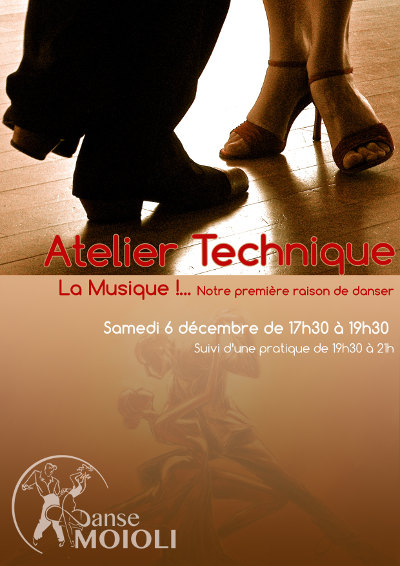
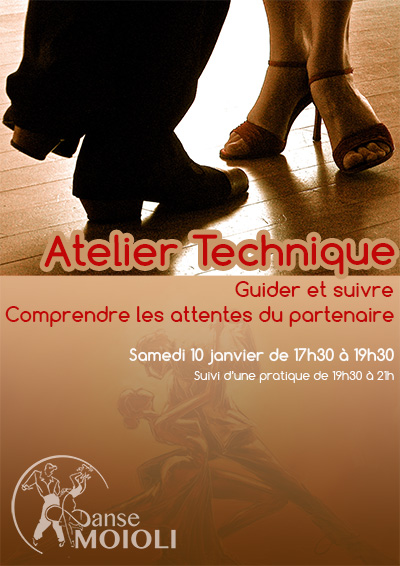
Stage tango janvier

diff --git a/actualites/index.html b/actualites/index.html
@@ -30,17 +30,17 @@ sitemap:
     </a>
   </div>
 {% comment %}
+{% endcomment %}
   <div  class="col-xs-12 col-md-4 text-center">
-    <a class="alert alert-actu contrast" href="{{ site.baseurl }}/stage/stage_technique_tango_argentin_decembre_2014"
+    <a class="alert alert-actu contrast" href="{{ site.baseurl }}/stage/stage_technique_tango_argentin_janvier_2015"
       style="background-image: url({{ site.baseurl }}/stage/stage_technique_tango_argentin_.jpg);">
       <h4><strong>Tango argentin</strong></h4>
       <h5>Stage de technique</h5>
-      <p><span class="fa fa-calendar"></span> 6 décembre 2014</h5>
-      <p>&laquo;La musique : notre 1<sup>ère</sup> raison de danser&raquo;</p>
+      <p><span class="fa fa-calendar"></span> 10 janvier 2015</h5>
+      <p>&laquo; Guider et suivre &raquo;</p>
       <div class="clearfix"></div>
     </a>
   </div>
-{% endcomment %}
 {% comment %}
   <div  class="col-xs-12 col-md-4 text-center">
     <a class="alert alert-actu contrast" href="{{ site.baseurl }}/stage/stage_novembre_2014"

diff --git a/stage/stage_technique_tango_argentin_janvier_2015.html b/stage/stage_technique_tango_argentin_janvier_2015.html
@@ -1,0 +1,28 @@
+---
+title: Stage de Technique Tango Argentin - Janvier 2015
+layout: default
+---
+
+<h2>Stage de technique - Tango Argentin</h2>
+
+<div class="row">
+  <div class="col-xs-12">
+    <p><em>10 janvier 2015 de 17h30 à 19h30</em></p>
+    <blockquote>&laquo; Guider et suivre &raquo;</blockquote>
+
+    <p class="text-center">
+      <a href="{{ site.baseurl }}/pdf/stage_technique_janvier_2015.pdf" target="_blank">
+        <span class="fa fa-file-text-o"></span>
+          Voir les infos détaillées
+          <br>
+          <br>
+        <img src="{{ site.baseurl }}/stage/stage_technique_tango_argentin.jpg"/>
+      </a>
+    </p>
+    <p>Si vous êtes intéressés, vous pouvez ensuite remplir le formulaire ci-dessous.
+    </p>
+    <p>
+    <iframe src="https://docs.google.com/forms/d/1W6bMROsSB7PsgkiiqSHtK-Ad-ejK6ucbYMefzkc7fBo/viewform?embedded=true" width="650" height="885" frameborder="0" marginheight="0" marginwidth="0">Chargement...</iframe>
+    </p>
+  </div>
+</div>

diff --git a/_includes/actualites.html b/_includes/actualites.html
@@ -41,12 +41,12 @@
 {% comment %}
 <div class="row text-center">
   <div  class="col-xs-12 text-center">
-    <a class="alert alert-actu contrast" href="{{ site.baseurl }}/stage/stage_technique_tango_argentin_decembre_2014"
+    <a class="alert alert-actu contrast" href="{{ site.baseurl }}/stage/stage_technique_tango_argentin_janvier_2015"
       style="background-image: url({{ site.baseurl }}/stage/stage_technique_tango_argentin_.jpg);">
       <h4><strong>Tango argentin</strong></h4>
       <h5>Stage de technique</h5>
-      <p><span class="fa fa-calendar"></span> 6 décembre 2014</h5>
-      <p>&laquo;La musique : notre 1<sup>ère</sup> raison de danser&raquo;</p>
+      <p><span class="fa fa-calendar"></span> 10 janvier 2015</h5>
+      <p>&laquo; Guider et suivre &raquo;</p>
       <div class="clearfix"></div>
     </a>
   </div>
